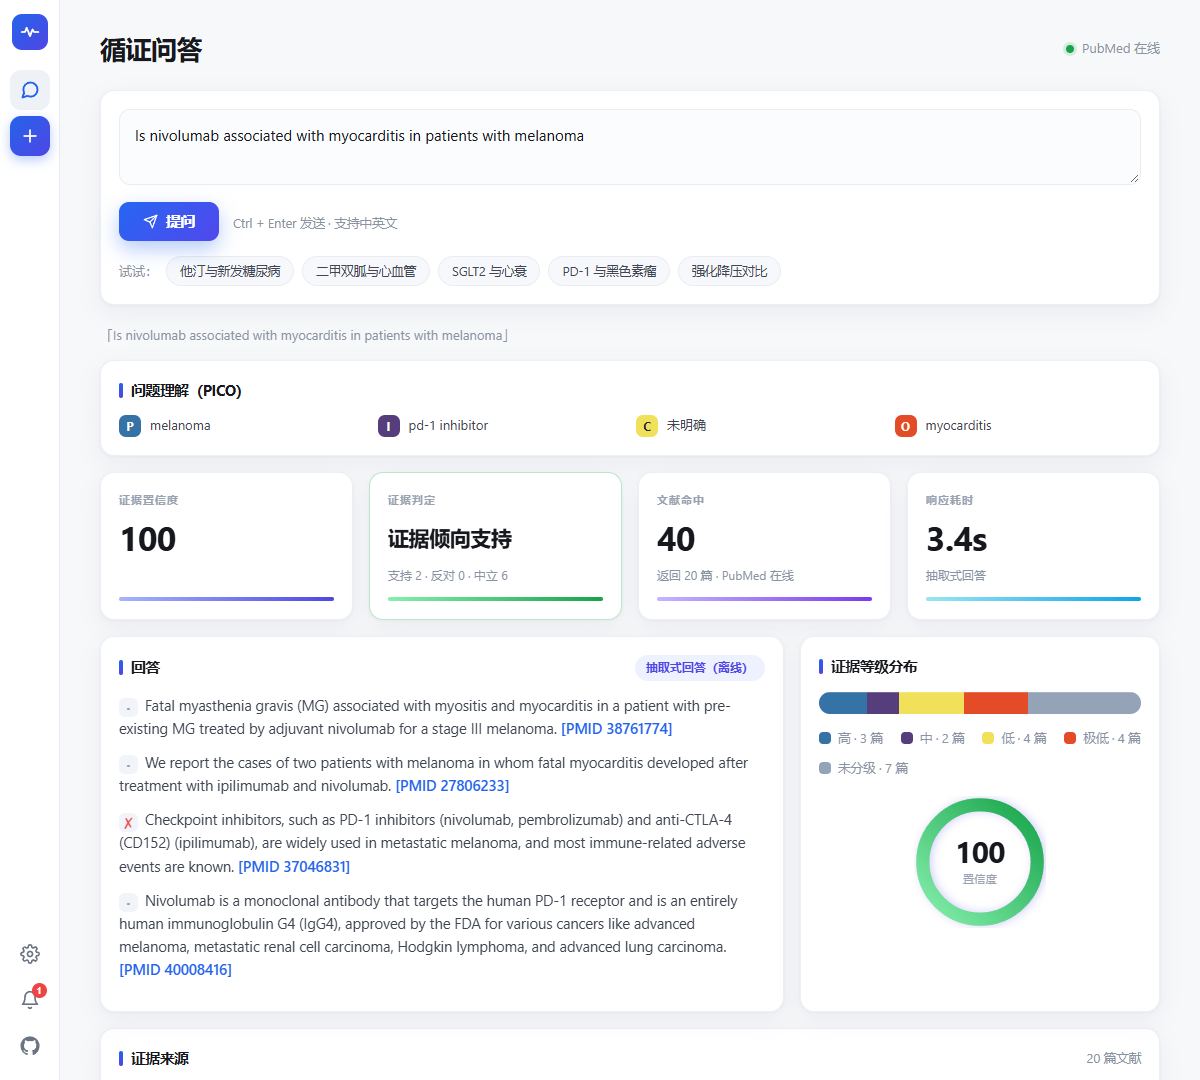
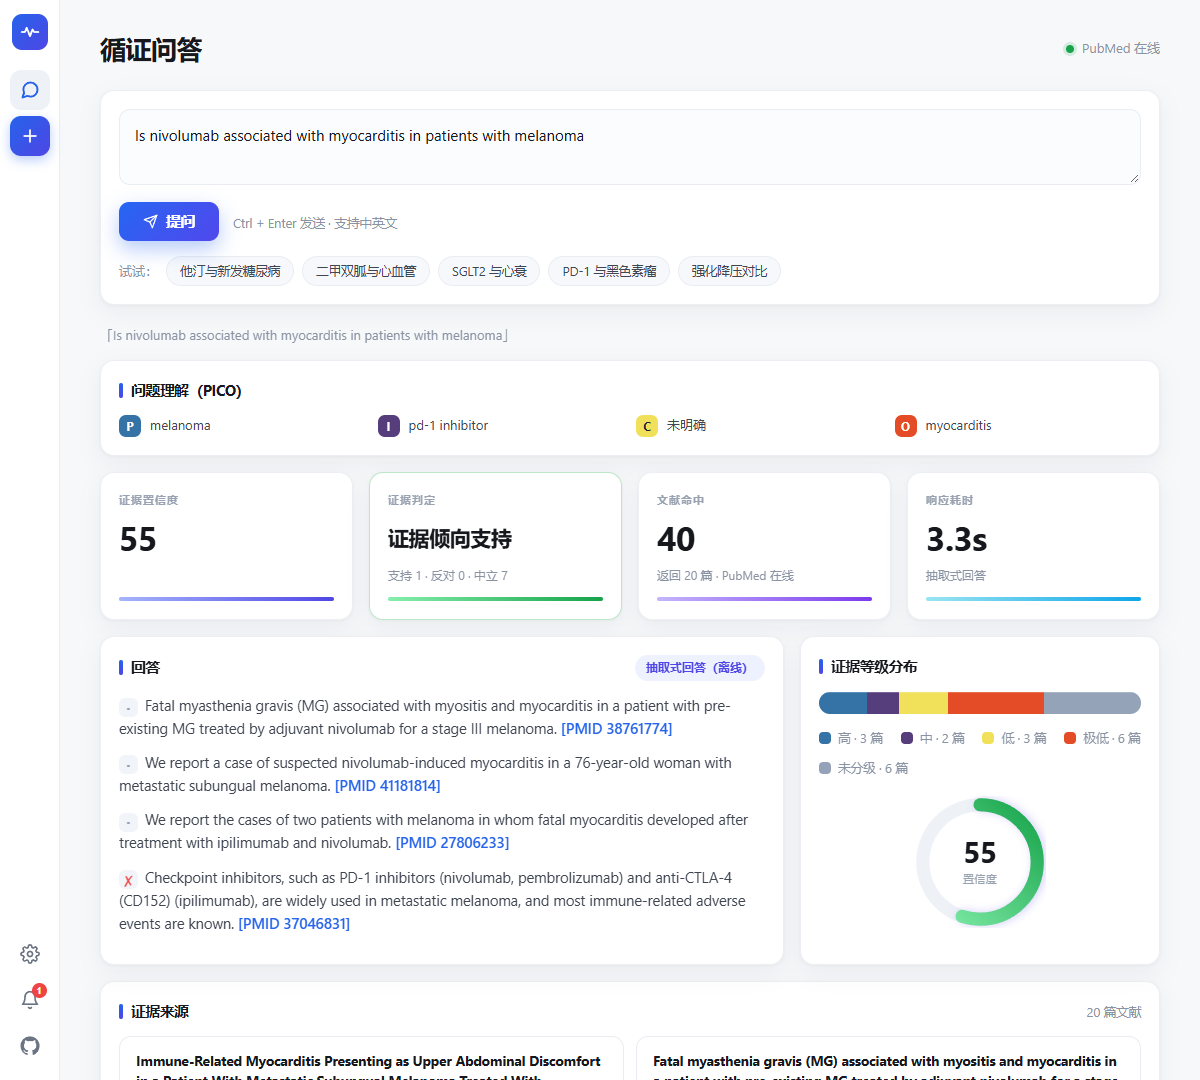
Fix confidence score to use grade-weighted average instead of max grade

diff --git a/app/evidence.py b/app/evidence.py
@@ -89,18 +89,23 @@ def _year_int(d):
 
 
 def compute_confidence(docs, conflict):
-    """0-100 分：证据等级 + 结论一致性 + 文献量 + 时效。"""
-    best = max((GRADE_BASE.get(d.get("grade", "N/A"), 40) for d in docs), default=40)
-    score = float(best)
-    score += -15 if conflict else 10
+    """0-100 分：证据整体质量（等级加权平均）+ 结论一致性 + 文献量 + 时效。
+
+    关键：不取"最高等级那一篇"的分数，而是按全部文献的等级加权平均，
+    极低/未分级文献会真实地拉低分数，避免"一篇 meta 分析掩盖所有烂证据"。
+    """
+    grades = [GRADE_BASE.get(d.get("grade", "N/A"), 40) for d in docs]
+    quality = sum(grades) / len(grades) if grades else 40
+    score = float(quality)
+    score += -10 if conflict else 6
     n = len(docs)
     if n >= 6:
-        score += 8
+        score += 4
     elif n >= 3:
-        score += 5
+        score += 2
     cur = date.today().year
     if any(_year_int(d) and _year_int(d) >= cur - 5 for d in docs):
-        score += 5
+        score += 4
     return max(0, min(100, int(round(score))))
 
 

diff --git a/README.md b/README.md
@@ -68,18 +68,18 @@
 
 | 分项 | 规则 |
 | --- | --- |
-| 证据等级基础分 | High 90 / Moderate 70 / Low 50 / Very low 30 / N/A 40，取最高档 |
-| 结论一致性 | 无冲突 +10，有冲突 -15 |
-| 文献量 | ≥6 篇 +8，≥3 篇 +5 |
-| 时效 | 近 5 年内有文献 +5 |
+| 证据等级基础分 | High 90 / Moderate 70 / Low 50 / Very low 30 / N/A 40，按全部文献加权平均（不是取最高档，极低/未分级会真实拉低分数） |
+| 结论一致性 | 无冲突 +6，有冲突 -10 |
+| 文献量 | ≥6 篇 +4，≥3 篇 +2 |
+| 时效 | 近 5 年内有文献 +4 |
 
-分数旁边同时展示"支持 / 反对 / 中立"的篇数，所以这个数是可以拆开质疑的，不是凭空蹦出来的。
+分数旁边同时展示"支持 / 反对 / 中立"的篇数，所以这个数是可以拆开质疑的，不是凭空蹦出来的。也正因为是加权平均，一篇 meta 分析无法掩盖同期大量低质量证据。
 
 ### 一个真实例子
 
 问"他汀类药物会增加新发糖尿病风险吗"，系统输出：
 
-- **判定：证据存在分歧**（支持 1 / 反对 4 / 中立 3，置信度 88）
+- **判定：证据存在分歧**（支持 1 / 反对 4 / 中立 3）
 - "反对"来自多篇 meta 分析，比如 Sattar 2010（PMID 20167359），指出他汀轻微增加新发糖尿病风险
 - "支持"来自他汀降低心血管事件的证据
 
